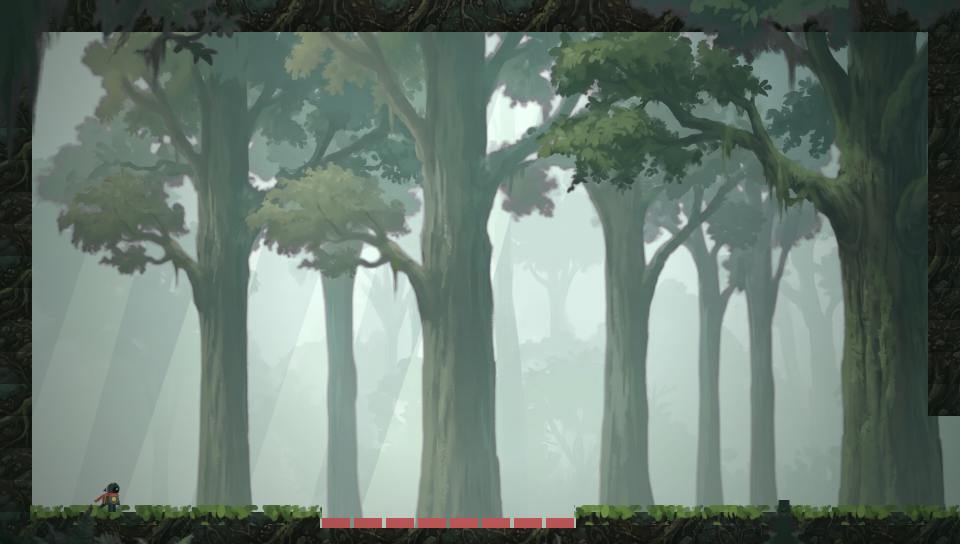
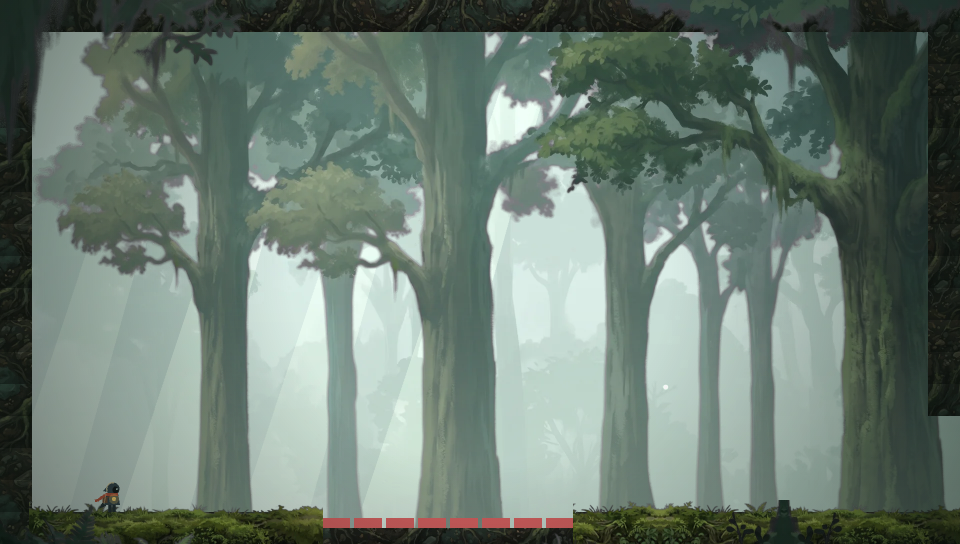
Painted mossy top lip on platforms (cropped from the ledge painting)

Changed region(s): [[0.5938, 0.9062, 1.0, 1.0], [0.0312, 0.9062, 0.3438, 1.0]]

diff --git a/art.js b/art.js
@@ -4,7 +4,7 @@
 // Note: browsers block image files opened via file://, so real art needs a local server
 // (e.g. `python3 -m http.server` in this folder, then open http://localhost:8000).
 const Art = {
-  FILES: ['sky', 'far', 'mid', 'midAlt', 'near', 'nearTop', 'nearBottom', 'ground', 'moss'],
+  FILES: ['sky', 'far', 'mid', 'midAlt', 'near', 'nearTop', 'nearBottom', 'ground', 'moss', 'lip'],
   W: 960,
   H: 544,
 
@@ -151,6 +151,19 @@ const Art = {
     const shade = scene.add.graphics().setDepth(1); // darker toward the bottom, for weight
     shade.fillGradientStyle(0x000000, 0x000000, 0x000000, 0x000000, 0, 0, 0.35, 0.35);
     shade.fillRect(x, y, w, h);
+    if (scene.textures.exists('lip')) {
+      // Painted top lip: one continuous strip per run of open tiles. Grass pokes ~12px above the
+      // surface, moss hangs over the front; it repeats by world position so neighbours line up.
+      for (let i = 0; i < mossTop.length; i++) {
+        if (!mossTop[i]) continue;
+        let n = 1;
+        while (mossTop[i + n]) n++;
+        const lx = x + i * 32 - 3, m = scene.add.tileSprite(lx, y - 12, n * 32 + 6, 48, 'lip').setOrigin(0).setDepth(2);
+        m.setTileScale(0.5).setTilePosition(lx / 0.5, 0);
+        i += n - 1;
+      }
+      return;
+    }
     mossTop.forEach((open, i) => {
       if (!open) return;
       const m = scene.add.tileSprite(x + i * 32 - 2, y - 7, 36, 20, 'moss').setOrigin(0).setDepth(2);
